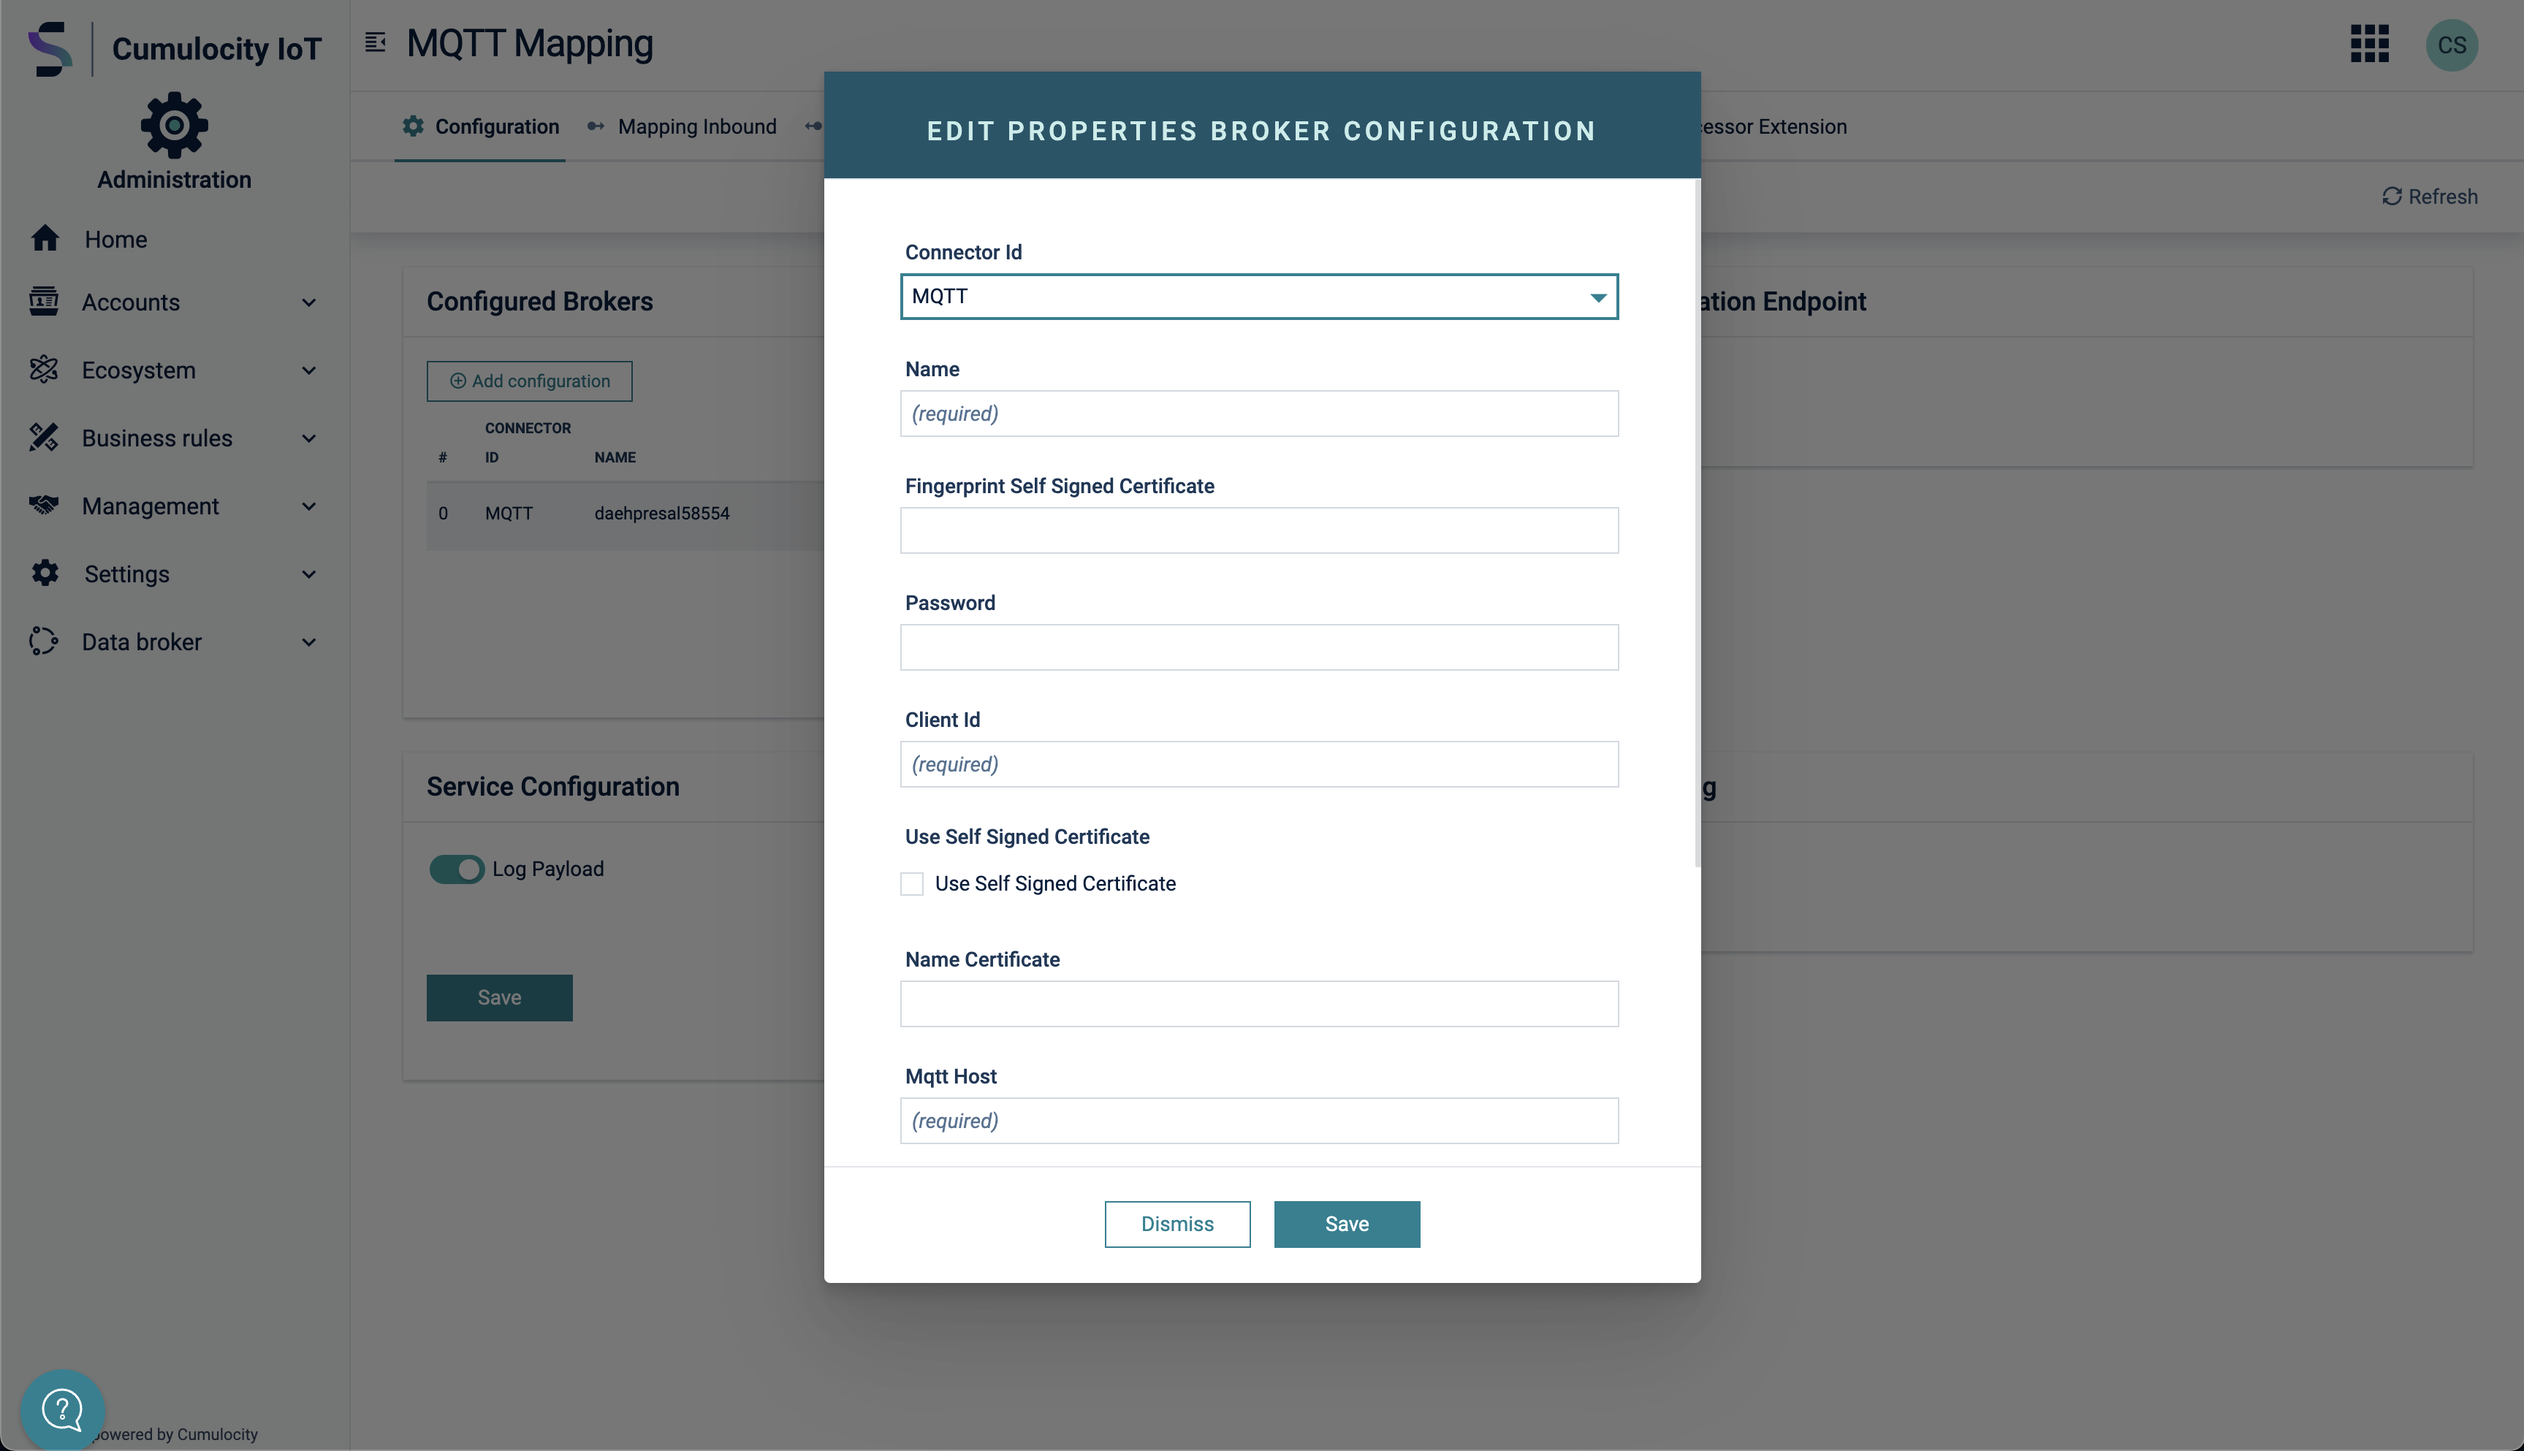
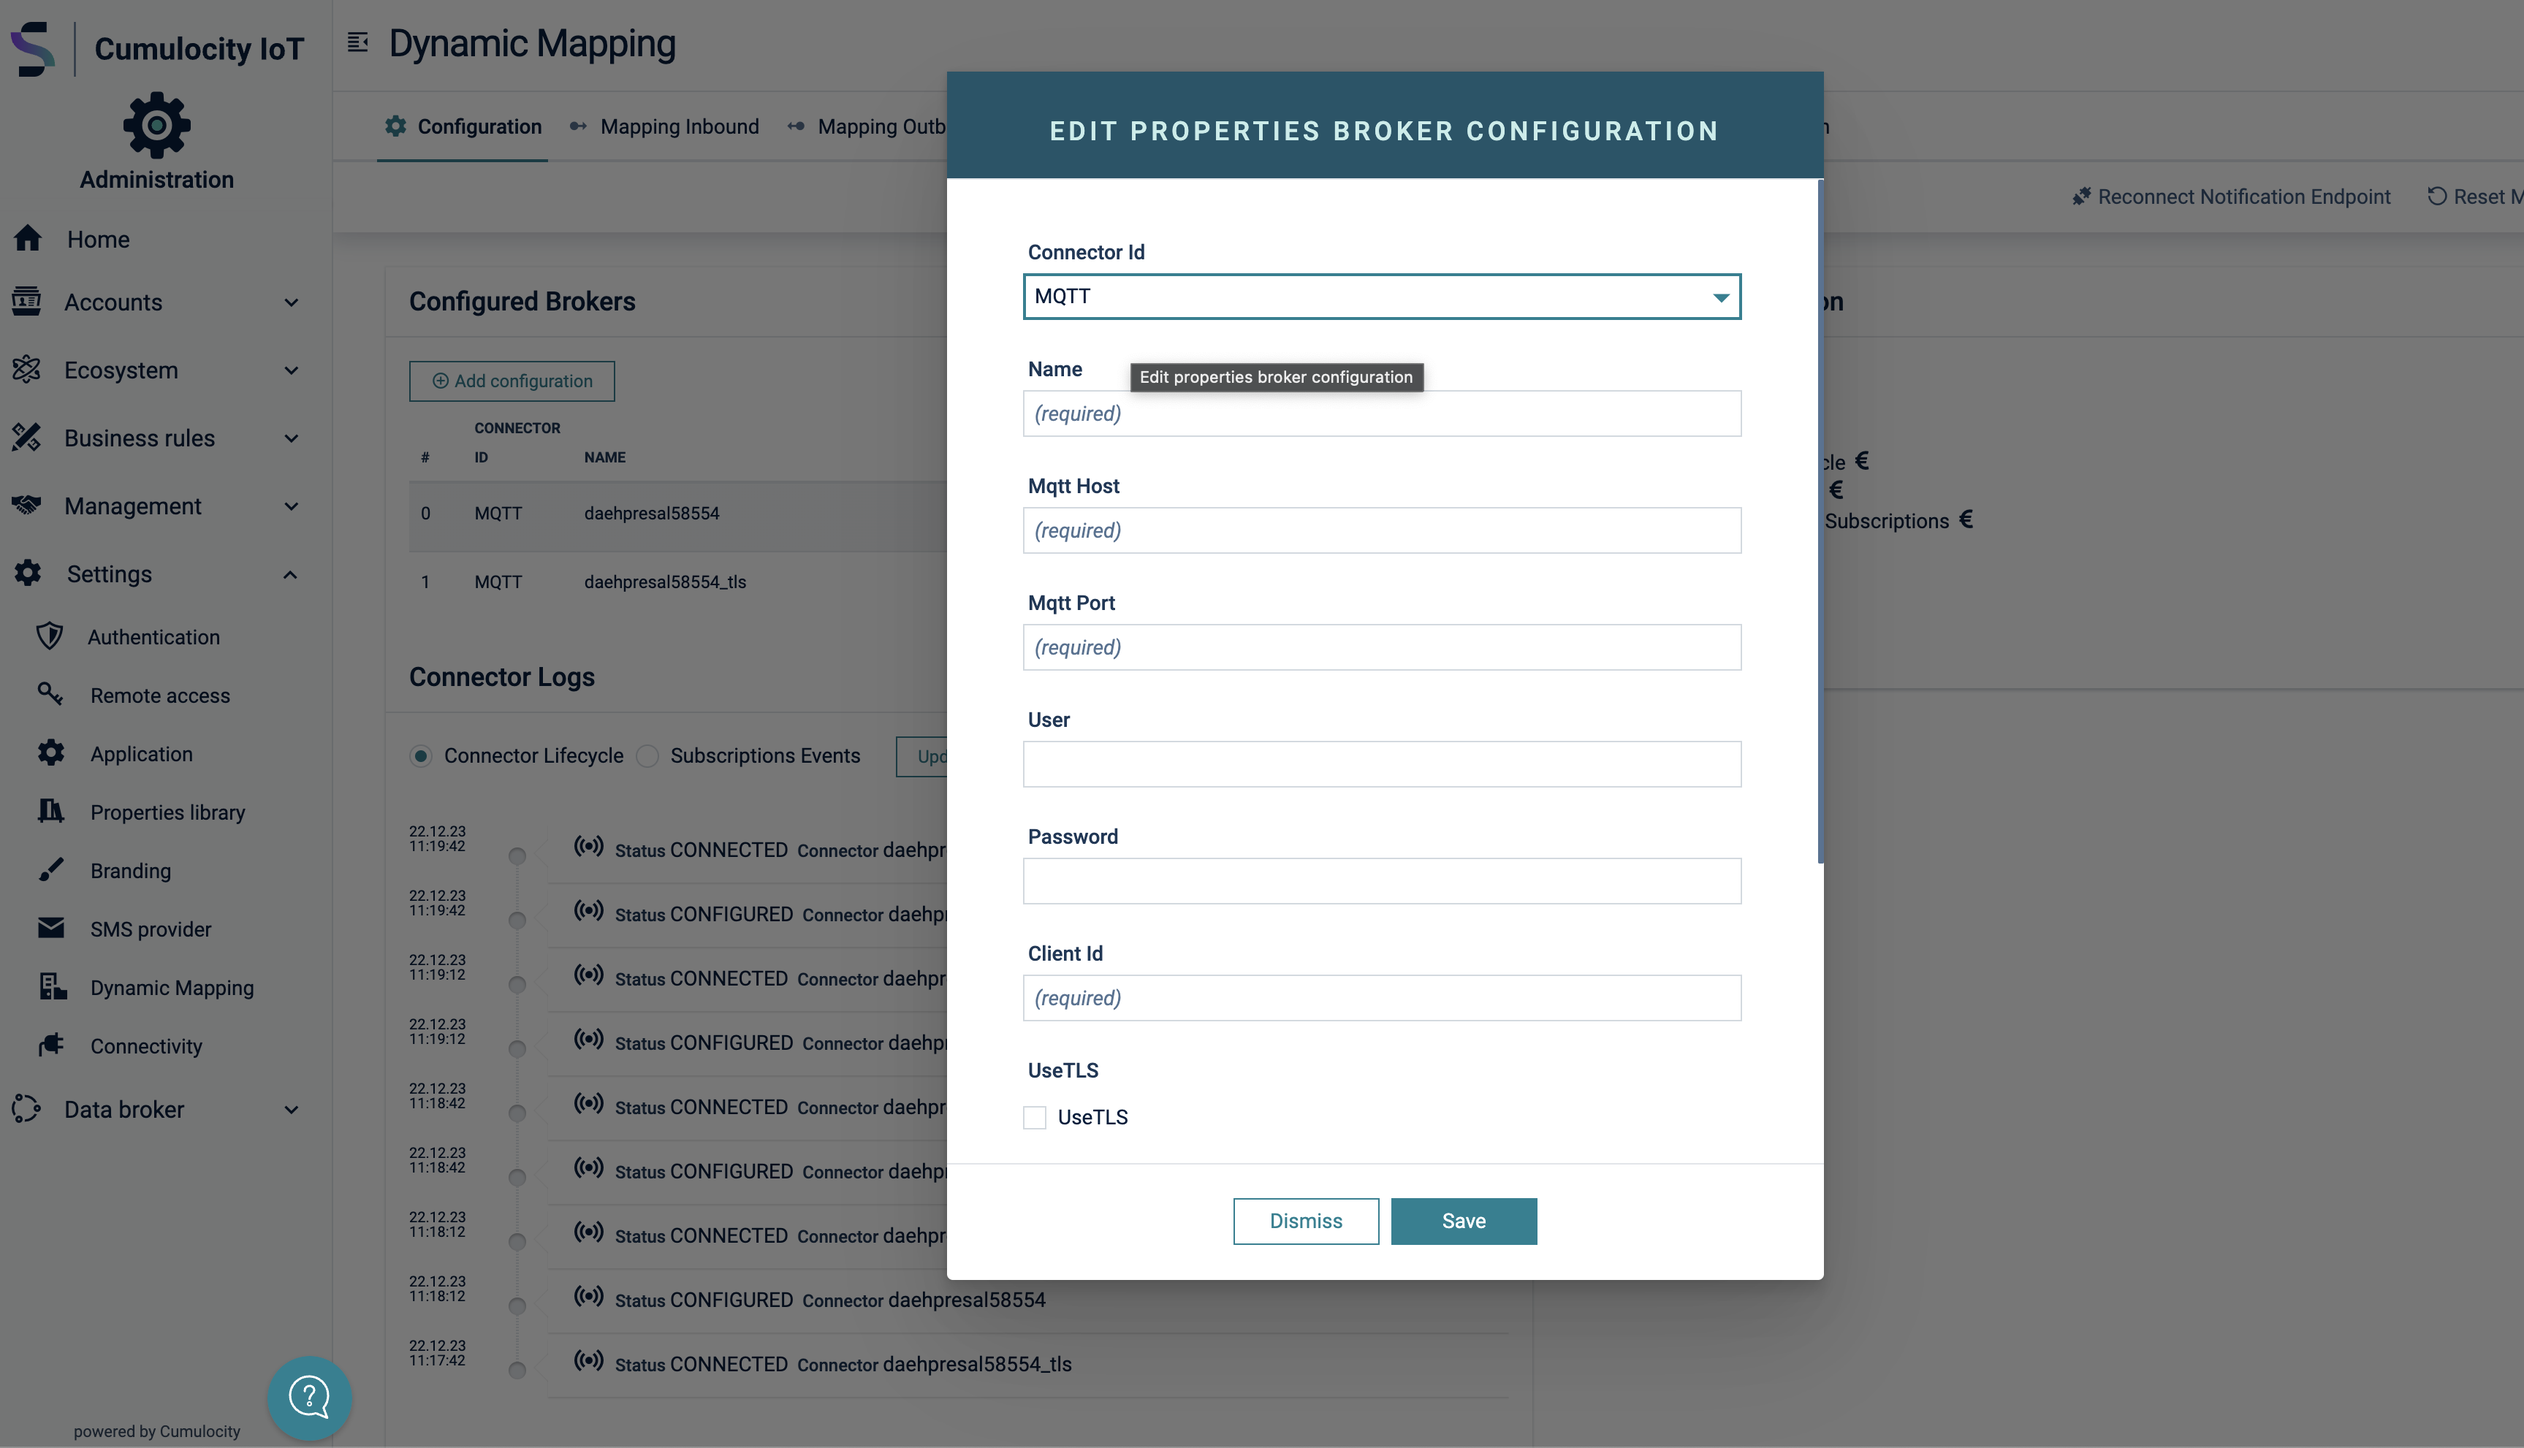
Update documentation

diff --git a/dynamic-mapping-ui/src/configuration/shared/broker-configuration.service.ts b/dynamic-mapping-ui/src/configuration/shared/broker-configuration.service.ts
@@ -73,7 +73,7 @@ export class BrokerConfigurationService {
   }
 
   private _agentId: Promise<string>;
-  private _connectorConfigurationsCombined: ConnectorConfigurationCombined[] =
+  private _connectorsConfigurationCombined: ConnectorConfigurationCombined[] =
     [];
   private _connectorConfigurations: ConnectorConfiguration[];
   private _serviceConfiguration: ServiceConfiguration;
@@ -98,7 +98,7 @@ export class BrokerConfigurationService {
     console.log("resetCache() :BrokerConfigurationService");
     this._feature = undefined;
     this._connectorConfigurations = undefined;
-    this._connectorConfigurationsCombined = [];
+    this._connectorsConfigurationCombined = [];
     this._connectorSpecifications = undefined;
     this._serviceConfiguration = undefined;
   }
@@ -210,22 +210,22 @@ export class BrokerConfigurationService {
     return this._connectorConfigurations;
   }
 
-  async getConnectorConfigurationsCombined(): Promise<
+  async getConnectorConfigurationsWithStatus(): Promise<
     ConnectorConfigurationCombined[]
   > {
     const configurations: ConnectorConfiguration[] =
       await this.getConnectorConfigurations();
-    const currentConnector = this._connectorConfigurationsCombined.map(
+    const currentConnectors = this._connectorsConfigurationCombined.map(
       (cc) => cc.configuration.ident
     );
     let connectorStatus = undefined;
     for (let index = 0; index < configurations.length; index++) {
       const conf = configurations[index];
-      if (!currentConnector.includes(conf.ident)) {
+      if (!currentConnectors.includes(conf.ident)) {
         if (!connectorStatus) {
           connectorStatus = await this.getConnectorStatus();
         }
-        this._connectorConfigurationsCombined.push({
+        this._connectorsConfigurationCombined.push({
           configuration: conf,
           status$: new BehaviorSubject<string>(
             connectorStatus[conf.ident].status
@@ -233,7 +233,7 @@ export class BrokerConfigurationService {
         });
       }
     }
-    return this._connectorConfigurationsCombined;
+    return this._connectorsConfigurationCombined;
   }
 
   async getServiceConfiguration(): Promise<ServiceConfiguration> {
@@ -297,7 +297,7 @@ export class BrokerConfigurationService {
 
     if (payload.type == StatusEventTypes.STATUS_CONNECTOR_EVENT_TYPE) {
       let statusLog: ConnectorStatus = payload[CONNECTOR_FRAGMENT];
-      this._connectorConfigurationsCombined.forEach((cc) => {
+      this._connectorsConfigurationCombined.forEach((cc) => {
         if (statusLog["connectorIdent"] == cc.configuration.ident) {
           cc.status$.next(statusLog.status);
         }
@@ -348,7 +348,7 @@ export class BrokerConfigurationService {
       withLatestFrom(this.filterTrigger$),
       scan((acc, [val, filterEventsType]) => {
         // acc = acc.filter((event) => event.type == filterEventsType);
-        if (val.type == "reset") {
+        if (val[0].type == "reset") {
           console.log("Reset loaded logs!");
           acc = [];
         } else {

diff --git a/dynamic-mapping-ui/src/configuration/broker-configuration.component.ts b/dynamic-mapping-ui/src/configuration/broker-configuration.component.ts
@@ -95,7 +95,7 @@ export class BrokerConfigurationComponent implements OnInit {
     this.specifications =
       await this.brokerConfigurationService.getConnectorSpecifications();
     this.configurations =
-      await this.brokerConfigurationService.getConnectorConfigurationsCombined();
+      await this.brokerConfigurationService.getConnectorConfigurationsWithStatus();
   }
 
   async clickedReconnect2NotificationEnpoint() {

diff --git a/README.md b/README.md
@@ -221,6 +221,12 @@ Furthermore, new connectors can be added. The UI is shown on the following scree
 </p>
 <br/>
 
+When you add or change a connection configuration very often it happens that incorrect parameter are given. In this case the connection to the MQTT broker cannot be established and the reason is not known. To identify the incorrect parameter you can follows the error messages in the connections logs:
+<p align="center">
+<img src="resources/image/Generic_Mapping_Connector_Monitoring.png"  style="width: 70%;" />
+</p>
+<br/>
+
 ### Definition and Activation of  mappings
 
 #### Table of mappings
